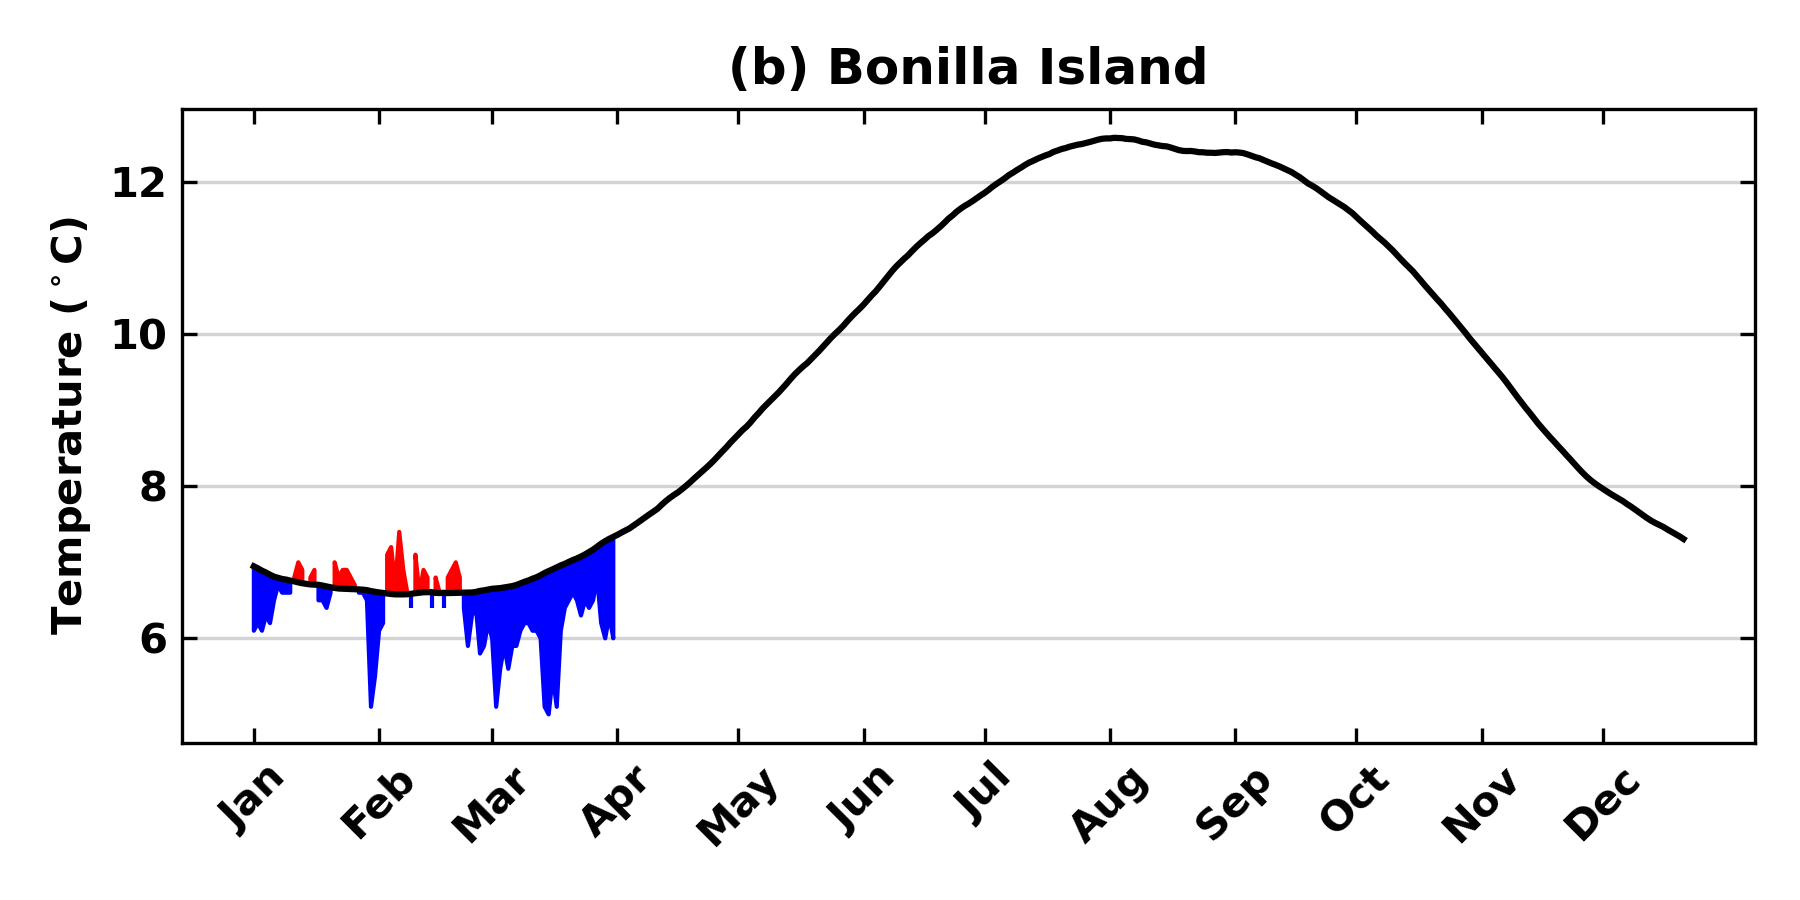
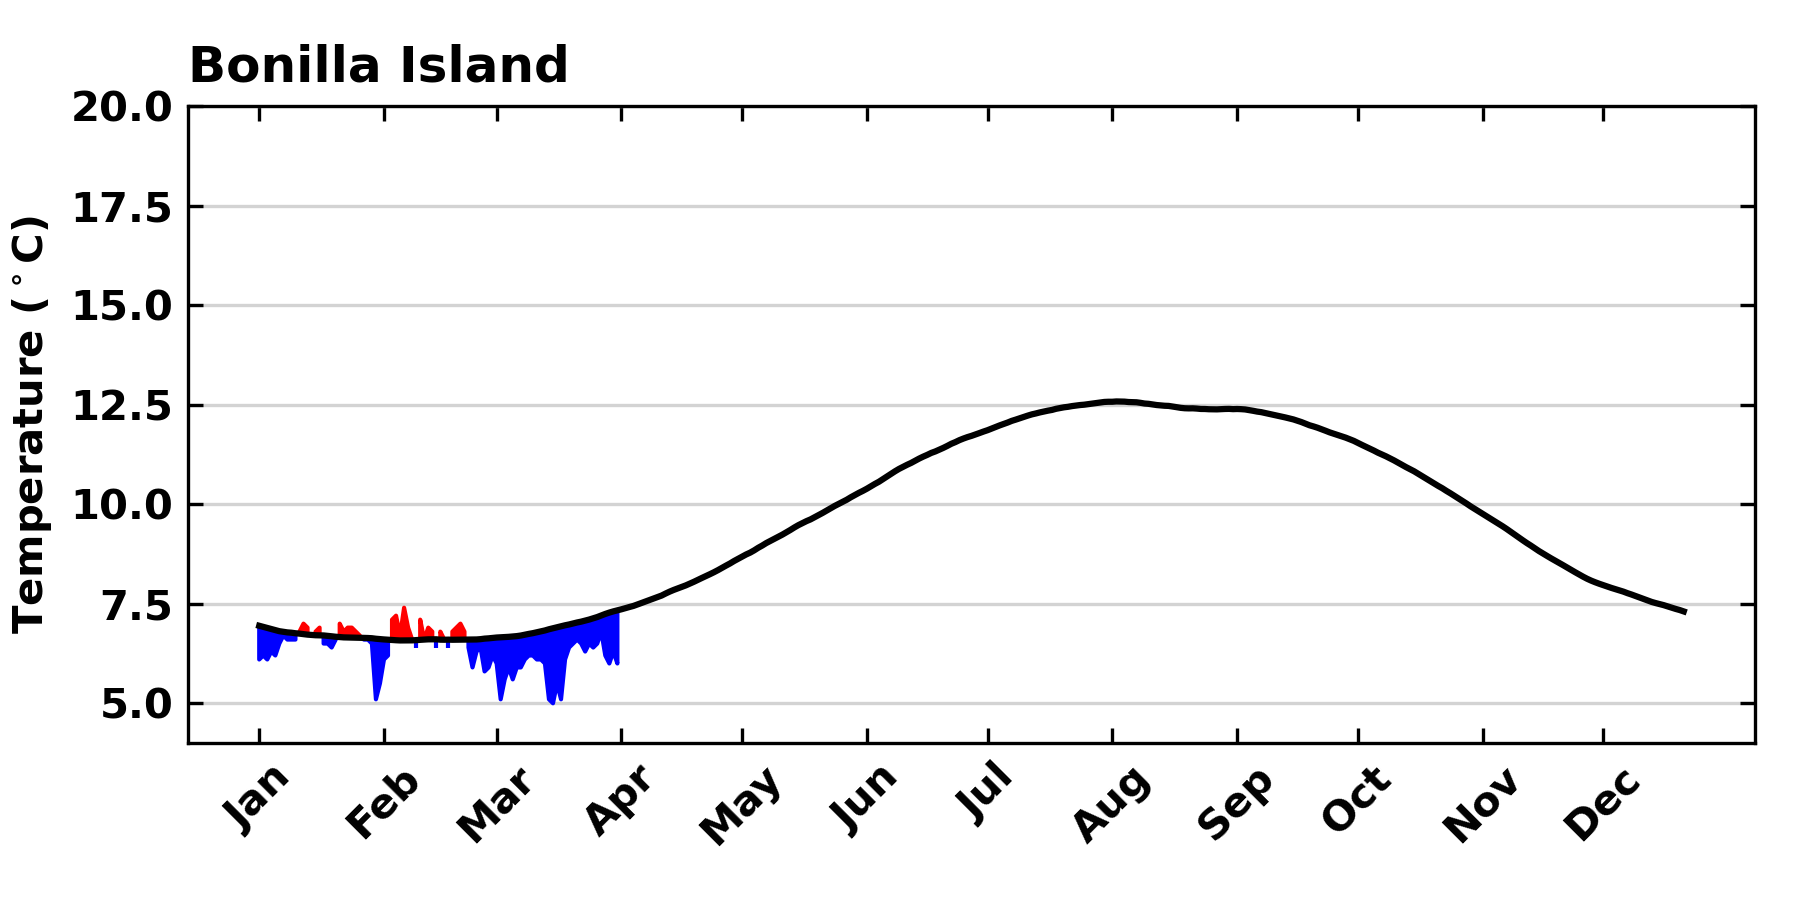
redo the filled daily anomalies plots for 2023 with common y axis limits

diff --git a/scripts/plot_lightstation_temperature.py b/scripts/plot_lightstation_temperature.py
@@ -218,7 +218,8 @@ def plot_daily_filled_anomalies(year: int, do_smooth: bool, window=None):
     inputs:
         - year: The year for which to plot the daily data
         - do_smooth: Whether to smooth the daily average data to get a smooth curve
-        - window: size of window (in units of days) to smooth with a rolling mean
+        - window: size of window (in units of days) to smooth with a rolling mean.
+                  If do_smooth is *True*, then window defaults to 21 days if a size is not given
     :return:
     """
     # old_dir = os.getcwd()
@@ -250,12 +251,15 @@ def plot_daily_filled_anomalies(year: int, do_smooth: bool, window=None):
     days_per_year = 365
     month_numbers = np.arange(1, 12 + 1, 1)
 
+    # Set y axis limits to visually compare plots more easily
+    ylim = (4, 20)
+
     xtick_labels = MONTH_ABBREV
     # Get the xtick locations in the correct units
     month_datetime = pd.to_datetime([f'{m}/1/{year}' for m in month_numbers])
     xtick_locations = month_datetime.dayofyear.to_numpy()
 
-    subplot_letters = 'abcdefgh'
+    # subplot_letters = 'abcdefgh'
 
     for i in range(len(final_daily_list)):
         # Read in fixed width file
@@ -288,9 +292,9 @@ def plot_daily_filled_anomalies(year: int, do_smooth: bool, window=None):
             ].mean(skipna=True)
 
         if do_smooth:
-            # Use 14-day rolling average as default
+            # Use 21-day rolling average as default
             if window is None:
-                window = 14
+                window = 21
             # Pad the start of the climatology with *window*-number of days
             # of the end of the climatology, so that there are no nans in January
             daily_clim_pad = pd.Series(data=np.zeros(len(daily_clim) + window))
@@ -338,6 +342,9 @@ def plot_daily_filled_anomalies(year: int, do_smooth: bool, window=None):
             color='b'
         )
         # Format the plot
+
+        # Set the y limits
+        ax.set_ylim(ylim)
         # Label the x and y axes, units are integer day of year
         ax.set_xticks(ticks=xtick_locations, labels=xtick_labels, rotation=45)
         ax.tick_params(axis="x", direction="in", bottom=True, top=True)
@@ -347,7 +354,7 @@ def plot_daily_filled_anomalies(year: int, do_smooth: bool, window=None):
         plt.grid(which='major', axis='y', color='lightgrey', linestyle='-')
         # Add labels
         ax.set_ylabel('Temperature ($^\circ$C)')
-        ax.set_title(f'({subplot_letters[i]}) {STATION_NAMES[i]}')
+        ax.set_title(STATION_NAMES[i], loc='left')
         plt.tight_layout()
 
         # Save the plot
